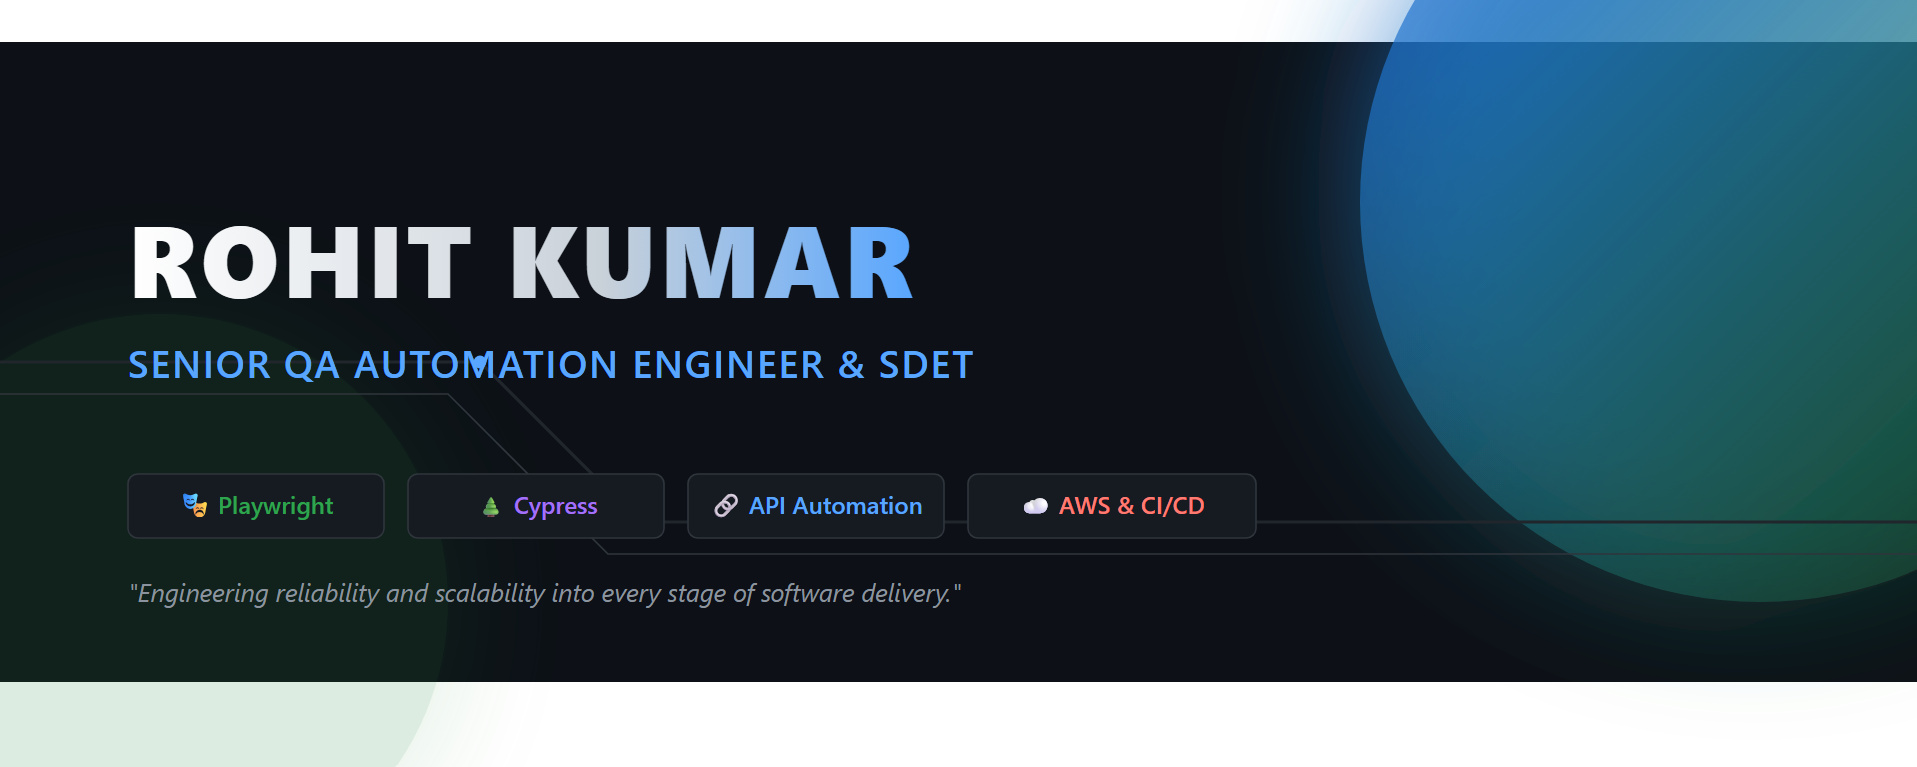
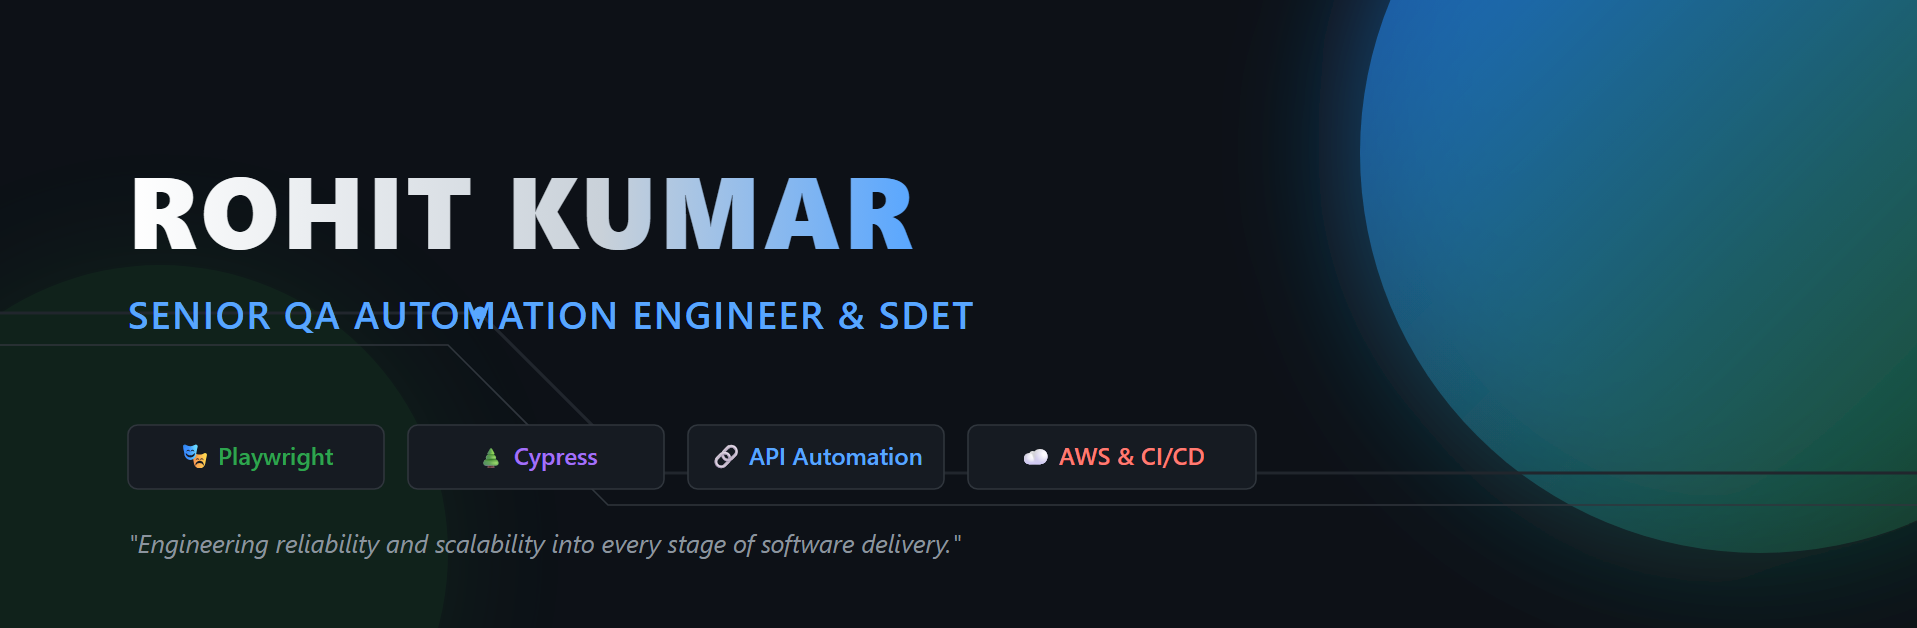
image

diff --git a/generate_banner.py b/generate_banner.py
@@ -1,0 +1,66 @@
+from PIL import Image, ImageDraw, ImageFont
+
+# 1. Create base canvas (1200x400 fits GitHub perfectly)
+width, height = 1200, 400
+background_color = (13, 17, 23)  # GitHub dark theme color
+image = Image.new("RGBA", (width, height), background_color)
+draw = ImageDraw.Draw(image)
+
+# 2. Draw modern design accents (Glow effects & minimal lines)
+# Draw an ambient background circle accent
+draw.ellipse([900, -50, 1250, 300], fill=(31, 111, 235, 40)) 
+# Structural pipeline layout lines
+draw.line([(-50, 200), (300, 200), (400, 300), (1250, 300)], fill=(48, 54, 61), width=2)
+draw.ellipse([296, 196, 304, 204], fill=(88, 166, 255))
+draw.ellipse([396, 296, 404, 304], fill=(46, 164, 79))
+
+# 3. Load text configurations
+try:
+    # Uses system font collections, falls back to default if unavailable
+    font_title = ImageFont.truetype("arialbd.ttf", 60)
+    font_sub = ImageFont.truetype("arial.ttf", 22)
+    font_tags = ImageFont.truetype("arialbd.ttf", 15)
+    font_italic = ImageFont.truetype("ariali.ttf", 16)
+except IOError:
+    font_title = font_sub = font_tags = font_italic = ImageFont.load_default()
+
+# 4. Render main text segments
+draw.text((80, 110), "ROHIT KUMAR", fill=(255, 255, 255), font=font_title)
+draw.text((80, 185), "SENIOR QA AUTOMATION ENGINEER & SDET", fill=(88, 166, 255), font=font_sub)
+
+# 5. Build framework tags/capsules manually
+tags = [
+    {"text": "Playwright", "color": (46, 164, 79)},
+    {"text": "Cypress", "color": (163, 113, 247)},
+    {"text": "API Automation", "color": (88, 166, 255)},
+    {"text": "AWS & CI/CD", "color": (255, 123, 114)}
+]
+
+start_x = 80
+for tag in tags:
+    tag_text = tag["text"]
+    text_color = tag["color"]
+    
+    # Calculate box width dynamically
+    box_width = len(tag_text) * 10 + 40
+    box_height = 36
+    
+    # Draw background badge container
+    draw.rounded_rectangle(
+        [start_x, 240, start_x + box_width, 240 + box_height], 
+        radius=6, 
+        fill=(22, 27, 34), 
+        outline=(48, 54, 61), 
+        width=1
+    )
+    # Write container metadata text
+    draw.text((start_x + 20, 248), tag_text, fill=text_color, font=font_tags)
+    start_x += box_width + 15
+
+# 6. Render final engineering philosophy statement
+draw.text((80, 320), '"Engineering reliability and scalability into every stage of software delivery."', fill=(139, 148, 158), font=font_italic)
+
+# 7. Export file output
+output_path = "github-banner.png"
+image.convert("RGB").save(output_path, "PNG")
+print(f"Success! Banner safely exported to '{output_path}'")
